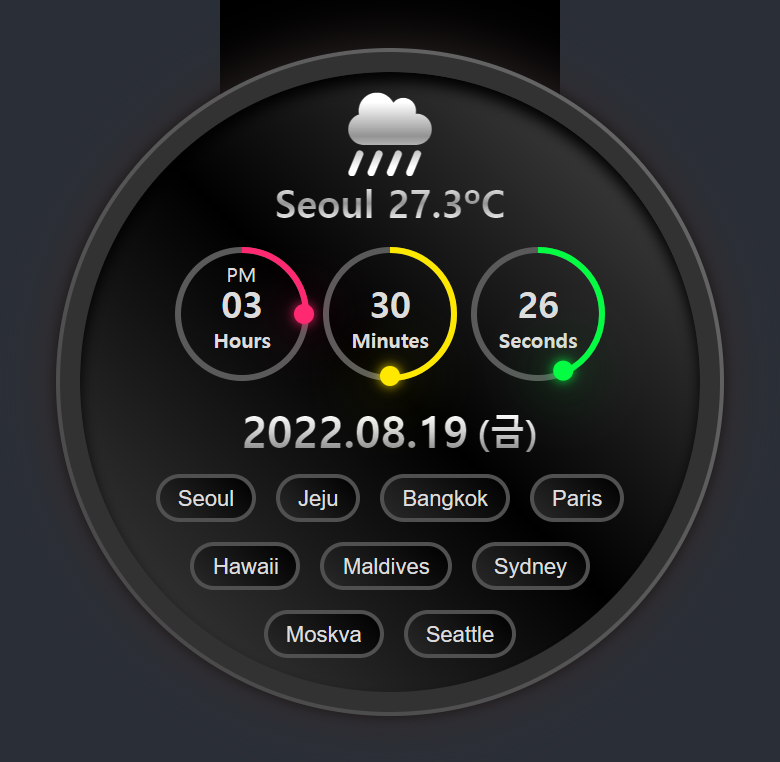
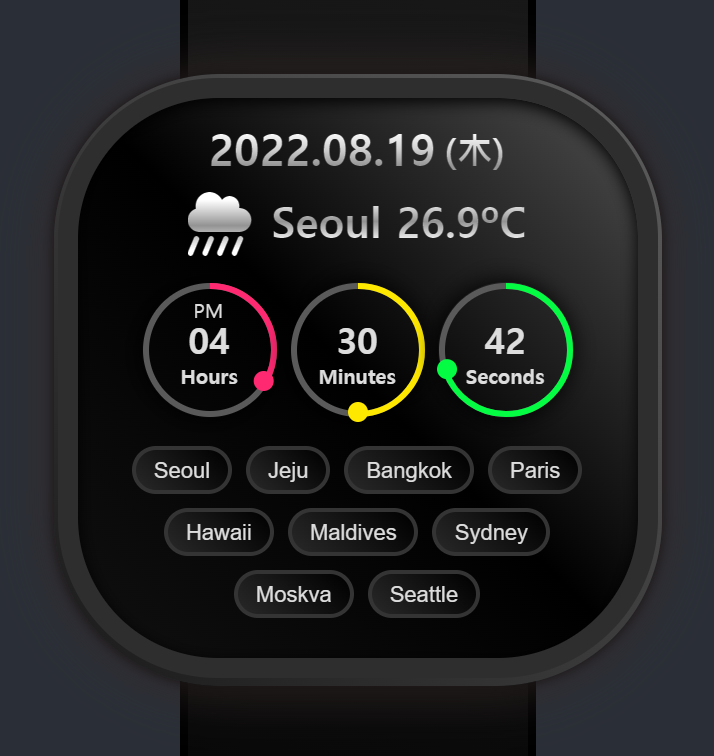
index.js

diff --git a/style.css b/style.css
@@ -1,33 +1,35 @@
 @charset "utf-8";
 *{box-sizing: border-box;margin: 0;padding: 0;}
-html{height: 100%;font-size: 1px;}   
+html{height: 100%;font-size: 1px;}
 body{background-color: #2a2f37;touch-action: pan-y;color: #666666;display: flex;align-items: center;height: 100%;flex-direction: column;align-content: center;justify-content: center;}
-.clocksvg{margin: 0 auto;position: absolute;padding: 10rem 17rem;display: flex;flex-direction: column;justify-content:center;align-items: center;border-radius: 90rem;background: black;border: #323232 solid 10rem;width: 310rem;height: 310rem;background-image: linear-gradient(45deg, #424242, #000000, #4e4e4e);box-shadow: inset #000 0rem 5rem 7rem;}
-.clocksvg::before{content:"";border-radius: 93rem;background: linear-gradient(45deg, #444444, #6a6a6a);/* border: #646464 solid 5rem; */width: 314rem;height: 314rem;position: absolute;left: -12rem;top: -12rem;z-index: -1;box-shadow: 0rem 0rem 30rem #342929, 0rem 0rem 6rem #000000;}
+
+.clocksvg{margin: 0 auto;position: absolute;padding: 2rem 17rem 10rem 17rem;display: flex;flex-direction: column;justify-content:center;align-items: center;border-radius: 80rem;background: black;border: #2e2e2e solid 10rem;width: 300rem;height: 300rem;background-image: linear-gradient(45deg, #101010, #000000, #4e4e4e);box-shadow: inset #000 0rem 2rem 8rem;}
+.clocksvg::before{content:"";border-radius: 83rem;background: linear-gradient(45deg, #1a1a1a, #5e5e5e); width: 304rem;height: 306rem;position: absolute;left: -12rem;top: -12rem;z-index: -1;box-shadow: 0rem 0rem 30rem #342929, 0rem 0rem 6rem #000000;}
 .clocksvg::after{content:"";position: fixed;left: 50%;transform: translateX(-50%);width: 170rem;bottom: -200px;top: -280px;display: block;background: #000;z-index: -2;border: #000000 solid 4px;background-image: linear-gradient(15deg, #000000, #222222);}
-.clocksvg .tit{font-weight: 700;margin: 0rem 0 9rem 0;position: relative;color: aliceblue;min-height: 52rem;display: flex;flex-wrap: wrap;align-items: center;width: 100%;justify-content: center;}
-.clocksvg .tit i{font-size: 32rem;display: block;margin: 2rem 16rem 0rem 0rem;background: linear-gradient(180deg,#ffffff 12.41%,#939393 52.55%,#ffffff 89.95%);-webkit-background-clip: text;-webkit-text-fill-color: transparent;}
-.clocksvg .tit b{font-size: 21rem;/* display: block; *//* width: 100%; */text-align: center;background: linear-gradient(180deg,#ffffff 12.41%,#939393 52.55%,#ffffff 89.95%);-webkit-background-clip: text;-webkit-text-fill-color: transparent;}
-.clocksvg .date{font-weight: 700;margin: 9rem 0 10rem 0;position: relative;color: #d5d5d5;display: flex;align-items: center;justify-content: center;background: linear-gradient(180deg,#ffffff 12.41%,#d1d1d1 52.55%,#959595 89.95%);-webkit-background-clip: text;-webkit-text-fill-color: transparent;}
+.clocksvg .box{}
+.clocksvg .tit{font-weight: 700;margin: 0rem 0 10rem 0;position: relative;color: aliceblue;min-height: 43rem;display: flex;flex-wrap: wrap;align-items: center;width: 100%;justify-content: center;}
+.clocksvg .tit i{font-size: 32rem;display: block;margin: 4rem 10rem 0rem 0rem;background: linear-gradient(180deg,#ffffff 12.41%,#939393 52.55%,#ffffff 89.95%);-webkit-background-clip: text;-webkit-text-fill-color: transparent;}
+.clocksvg .tit b{font-size: 21rem; text-align: center;background: linear-gradient(180deg,#ffffff 12.41%,#939393 52.55%,#ffffff 89.95%);-webkit-background-clip: text;-webkit-text-fill-color: transparent;}
+.clocksvg .date{font-weight: 700;margin: 2rem 0 3rem 0;position: relative;color: #d5d5d5;display: flex;align-items: center;justify-content: center;background: linear-gradient(180deg,#ffffff 12.41%,#d1d1d1 52.55%,#959595 89.95%);-webkit-background-clip: text;-webkit-text-fill-color: transparent;}
 .clocksvg .date b{font-size: 22rem;font-weight: 700; font-style: normal; line-height: 1;}
 .clocksvg .date i{font-size: 18rem;font-weight: 700; font-style: normal; line-height: 1; margin-left: 4rem;}
 .clocksvg .time{display: flex;justify-content: space-between;color: #ddd;gap: 6rem;position: relative;}
-.clocksvg .circle{position: relative;width: 68rem;height: 68rem;display: flex;justify-content: center;align-items: center;}
+.clocksvg .circle{position: relative;width: 72rem;height: 72rem;display: flex;justify-content: center;align-items: center;}
 .clocksvg .circle .nm{position: absolute;text-align: center;font-weight: 700;font-size:18rem;font-family: sans-serif;margin-top: 0rem;}
 .clocksvg .circle .nm i{display: block; font-size:10rem; font-style: normal; line-height: 1;}
-.clocksvg .circle .nm::after{font-size: 10rem; display: block;}
+.clocksvg .circle .nm::after{font-size: 10rem;display: block;line-height: 1;}
 .clocksvg .circle.hh .nm::after{content:"Hours";}
 .clocksvg .circle.mm .nm::after{content:"Minutes";}
 .clocksvg .circle.ss .nm::after{content:"Seconds";}
 .clocksvg .circle svg{position: relative;width: 100%;height: 100%;transform: rotate(270deg);box-shadow: #000 0rem -1rem 12rem;border-radius: 300rem;}
-.clocksvg .circle svg circle{width: 100%;height: 100%;fill: #531356;fill: transparent;stroke: #5a5a5a;stroke-width: 3rem;transform: translate(2rem, 2rem);position: absolute;}
-.clocksvg .circle svg circle:nth-child(2){stroke: var(--clr);stroke-dasharray: 200;}
+.clocksvg .circle svg circle{width: 100%;height: 100%;fill: #531356;fill: transparent;stroke: rgb(255 255 255 / 30%);stroke-width: 7rem;transform: translate(0rem, 0rem);position: absolute;}
+.clocksvg .circle svg .cr{stroke: var(--clr);/* stroke-dasharray: 200; */}
 .clocksvg .circle .dot{position: absolute;width: 100%;height: 100%;text-align: center;display: flex;justify-content: center;z-index: 1;}
 .clocksvg .load .dot{transition: all 0.3s;}
-.clocksvg .circle .dot::before{content:"";position: absolute;top: -2rem;width: 10rem;height: 10rem;background: var(--clr);border-radius: 100%; box-shadow:0rem 0rem 30remvar(--clr) , 0rem 0rem 6rem var(--clr);transition: all 0.1s;}
-.clocksvg .ap{position: absolute;left: 34rem;top: 7rem;font-size: 9rem;transform: translateX(-53%);}
+.clocksvg .circle .dot::before{content:"";position: absolute;top: -3rem;width: 10rem;height: 10rem;background: var(--clr);border-radius: 100%;box-shadow: 0rem 0rem 30rem var(--clr) , 0rem 0rem 6rem var(--clr);transition: all 0.1s;}
+.clocksvg .circle .ap{position: absolute;left: 50%;top: 9px;font-size: 9rem;transform: translate3d(-53%,0%, 0);}
+.clocksvg .selt{margin: 14rem 10rem 0rem;width: 250rem;display: flex;justify-content: center;flex-wrap: wrap;gap: 7rem;}
+.clocksvg .selt .btn{border: none;transition: transform 0.1s;background-image: linear-gradient(45deg, #282828, black);border: #343434 solid 2rem;color: #dddddd;border-radius: 100rem;font-size: 11rem;padding: 4rem 9rem;}
+.clocksvg .selt .btn:active{ transform: scale(0.95);}
 
-.selt{margin: 4rem 10rem 0rem;width: 260rem;display: flex;justify-content: center;flex-wrap: wrap;gap: 7rem;}
-.selt .btn{border: none; transition: transform 0.1s; background-image: linear-gradient(45deg, #282828, black);border: #505050 solid 2rem;color: #dddddd;border-radius: 100rem;font-size: 11rem;padding: 4rem 9rem;}
-.selt .btn:active{ transform: scale(0.95);}
-.test{position: absolute;top: 0;left: 0;font-size: 12rem;color: #484848;color: transparent;}
+.test{position: absolute;top: 0;left: 0;font-size: 12rem;color: #484848;color: transparent;z-index: 10;}

diff --git a/index.js b/index.js
@@ -7,8 +7,20 @@ const clock = {
         this.weather();
         this.draw(this.tgap);
         setInterval( e => this.draw(this.tgap), 1000);
+
+        const xyr = 36;
+        document.querySelectorAll(".circle circle").forEach(
+            circ => {
+                circ.setAttribute("cx", xyr);
+                circ.setAttribute("cy", xyr);
+                circ.setAttribute("r",  xyr);
+                circ.closest(".circle").style.height = xyr*2+"rem";
+                circ.closest(".circle").style.width = xyr*2+"rem";
+                circ.style.strokeDasharray = circ.getTotalLength();
+            }
+        );
     },
-    weather:function(){ /* 날씨(아이콘,온도) */
+    weather: function(){ /* 날씨(아이콘,온도) */
         const _this = this;
         const icons = {
             '01' : 'fas fa-sun',
@@ -51,7 +63,7 @@ const clock = {
         };
 
         const setCity = (myCity,gap) => {  /* 도시이름으로 날씨,온도,아이콘 가져오기 */
-            fetch('https://api.openweathermap.org/data/2.5/weather?q='+myCity+'&appid='+appid+'&units=metric')
+            fetch('//api.openweathermap.org/data/2.5/weather?q='+myCity+'&appid='+appid+'&units=metric')
             .then( rest => rest.ok ? rest.json() : null )
             .then( data => {
                 test.innerHTML = myCity + " - " + test.innerHTML ;
@@ -65,8 +77,8 @@ const clock = {
             });
         };
 
-        const btns = document.querySelectorAll(".btn:not(.my)");
-        btns.forEach( bt => bt.addEventListener("click", e => setCity(bt.value, bt.getAttribute("data-tm") )));
+        const bts = document.querySelectorAll(".btn:not(.my)");
+        bts.forEach( bt => bt.addEventListener("click", e => setCity(bt.value, bt.getAttribute("data-tm") )));
 
     },
     tgap:0,
@@ -88,14 +100,13 @@ const clock = {
             mm: document.querySelector(".circle.mm .dot"),
             ss: document.querySelector(".circle.ss .dot"),
         };
-        const weeks = { /* 요일 */
-            "ch": ["日","月","火","水","木","金","土"],
-            "en": ["Sun","Mon","Tue","Wed","Thu","Fri","Sat"],
-            "ko": ["월","화","수","목","금","토","일"]
+        const week = { /* 요일 */
+            ch: ["日","月","火","水","木","金","土"],
+            en: ["Sun","Mon","Tue","Wed","Thu","Fri","Sat"],
+            ko: ["월","화","수","목","금","토","일"]
         };
 
         const dgt = n => n < 10 ? "0" + n : n; /* "01","02" 두자리 수로 만들기 */
-        
 
         const dorg = new Date();
         const date = new Date(Date.parse(dorg) + (1000*60*60* tgap));
@@ -112,7 +123,7 @@ const clock = {
         // console.log(tday);
 
         /* 렌더 */
-        time.yymd.innerHTML = "<b>"+tday.yy +"."+ dgt(tday.mo) +"."+ dgt(tday.dy) +"</b> <i>("+ weeks.ko[tday.wk] +")</i>";
+        time.yymd.innerHTML = "<b>"+tday.yy +"."+ dgt(tday.mo) +"."+ dgt(tday.dy) +"</b> <i>("+ week.ch[tday.wk] +")</i>";
         time.hour.innerHTML = "<b>"+dgt(tday.hh)+"</b>";
         time.mins.innerHTML = "<b>"+dgt(tday.mm)+"</b>";
         time.secs.innerHTML = "<b>"+dgt(tday.ss)+"</b>";
@@ -130,26 +141,26 @@ const clock = {
         
         setTimeout(() => document.querySelector(".time").classList.add("load"));
     },
-    area: function(){
+    area: function(){ /* 도시 선택 */
         const area = {
-            "Seoul":    { name: "Seoul",     gap: 0 },
-            "Jeju":     { name: "Jeju",      gap: 0 },
-            "Bangkok":  { name: "Bangkok",   gap: -2 },
-            "Paris":    { name: "Paris",     gap: -7 },
-            "Hawaii":   { name: "Hawaii",    gap: -19 },
-            "Maldives": { name: "Maldives",  gap: -3.5 },
-            "Sydney":   { name: "Sydney",    gap: +1 },
-            "Moskva":   { name: "Moskva",    gap: -6 },
-            "Seattle":  { name: "Seattle",   gap: -16 },
+            seoul:    { name: "Seoul",     gap: 0    },
+            jeju:     { name: "Jeju",      gap: 0    },
+            bangkok:  { name: "Bangkok",   gap: -2   },
+            paris:    { name: "Paris",     gap: -7   },
+            hawaii:   { name: "Hawaii",    gap: -19  },
+            maldives: { name: "Maldives",  gap: -3.5 },
+            sydney:   { name: "Sydney",    gap: +1   },
+            moskva:   { name: "Moskva",    gap: -6   },
+            seattle:  { name: "Seattle",   gap: -16  },
         };
         const selt = document.querySelector(".selt");
-        let btns = "";
+        let bts = "";
         console.table(area);
         for(const key in area ){
             const bt = '<button class="btn" value="'+area[key].name+'" data-tm="'+area[key].gap+'">'+area[key].name+'</button>';
-            btns +=  bt;
+            bts +=  bt;
         }
-        selt.innerHTML = btns;
+        selt.innerHTML = bts;
     }
 };
 

diff --git a/index.html b/index.html
@@ -8,42 +8,42 @@
     <title>Digital Clock</title>
     <script async defer src="https://maps.googleapis.com/maps/api/js?key={APP_KEY}"></script>
     <link rel="stylesheet" href="https://cdnjs.cloudflare.com/ajax/libs/font-awesome/6.1.2/css/all.min.css" integrity="sha512-1sCRPdkRXhBV2PBLUdRb4tMg1w2YPf37qatUFeS7zlBy7jJI8Lf4VHwWfZZfpXtYSLy85pkm9GaYVYMfw5BC1A==" crossorigin="anonymous" referrerpolicy="no-referrer" />
-    <link rel="stylesheet" href="./style.css?v=2">
+    <link rel="stylesheet" href="./style.css?v=3">
 </head>
 <body>
 
 <div class="clocksvg">
     <div class="box">
+        <div class="date">2022.12.31</div>
         <h1 class="tit"></h1>
         <div class="time">
             <div class="circle hh" style="--clr:#ff2972;">
-                <i class="dot hh"></i>
+                <i class="dot"></i>
                 <svg>
-                    <circle cx="32" cy="32" r="32"></circle>
-                    <circle cx="32" cy="32" r="32" class="cr"></circle>
+                    <circle></circle>
+                    <circle class="cr"></circle>
                 </svg>
                 <div class="nm">00</div>
                 <div class="ap">AM</div>
             </div>
             <div class="circle mm" style="--clr:#fee800;">
-                <i class="dot mm"></i>
+                <i class="dot"></i>
                 <svg>
-                    <circle cx="32" cy="32" r="32"></circle>
-                    <circle cx="32" cy="32" r="32" class="cr"></circle>
+                    <circle></circle>
+                    <circle class="cr"></circle>
                 </svg>
                 <div class="nm">00</div>
             </div>
             <div class="circle ss" style="--clr:#04fc43;">
-                <i class="dot ss"></i>
+                <i class="dot"></i>
                 <svg>
-                    <circle cx="32" cy="32" r="32"></circle>
-                    <circle cx="32" cy="32" r="32" class="cr"></circle>
+                    <circle></circle>
+                    <circle class="cr"></circle>
                 </svg>
                 <div class="nm">00</div>
             </div>
 
         </div>
-        <div class="date">2022.12.31</div>
     </div>
     <div class="selt"></div>
 </div>
@@ -51,7 +51,7 @@
 
 
 <div class="test"></div>
-<script src="./index.js?v=2"></script>
+<script src="./index.js?v=3"></script>
 
 </body>
 </html>
